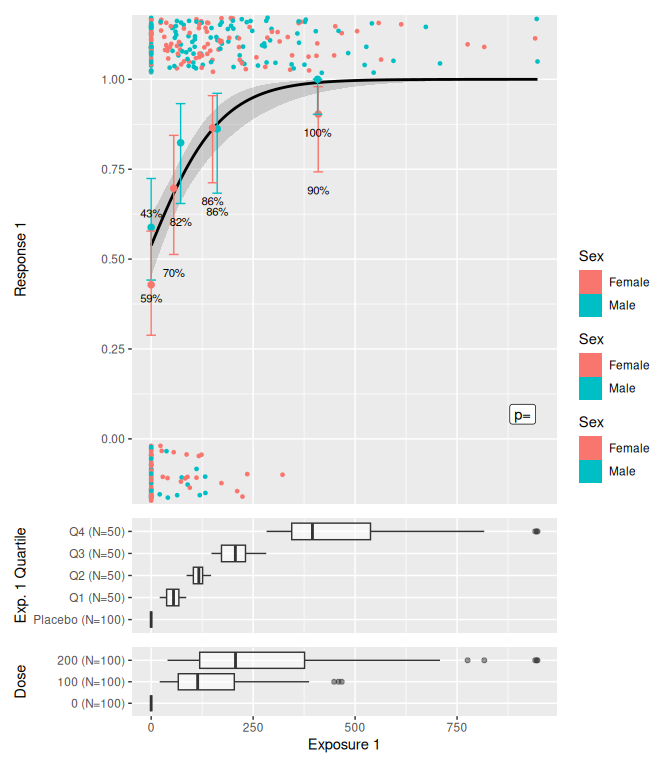
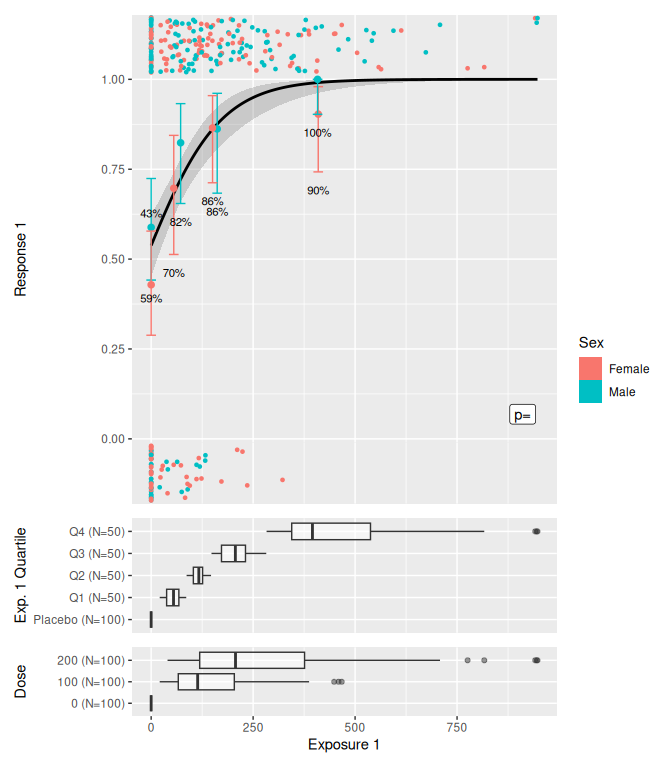
fixes legend duplication bug

diff --git a/README.md b/README.md
@@ -111,8 +111,8 @@ lr_scm_history(mod2)
 #>   iteration attempt step       action term_tested model_tested   model_converged
 #>       <int>   <int> <chr>      <chr>  <chr>       <chr>          <lgl>          
 #> 1         0       0 base model <NA>   <NA>        response_1 ~ … TRUE           
-#> 2         1       1 backward   remove ~dose       response_1 ~ … TRUE           
-#> 3         1       2 backward   remove ~sex        response_1 ~ … TRUE           
+#> 2         1       1 backward   remove ~sex        response_1 ~ … TRUE           
+#> 3         1       2 backward   remove ~dose       response_1 ~ … TRUE           
 #> 4         2       3 backward   remove ~sex        response_1 ~ … TRUE           
 #> # ℹ 4 more variables: term_p_value <dbl>, model_aic <dbl>, model_bic <dbl>,
 #> #   model_updated <int>
